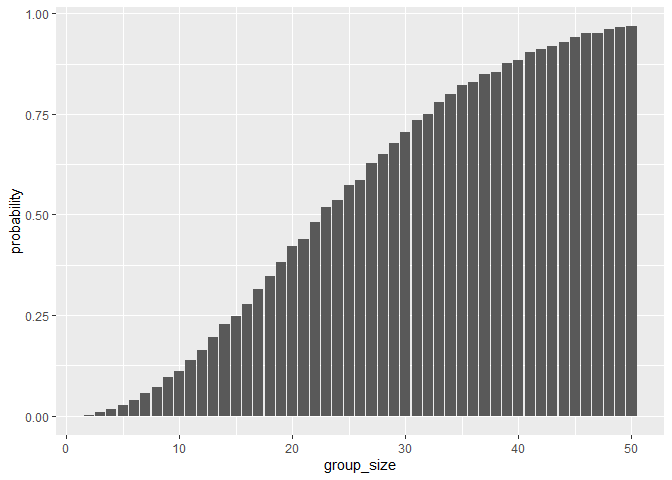
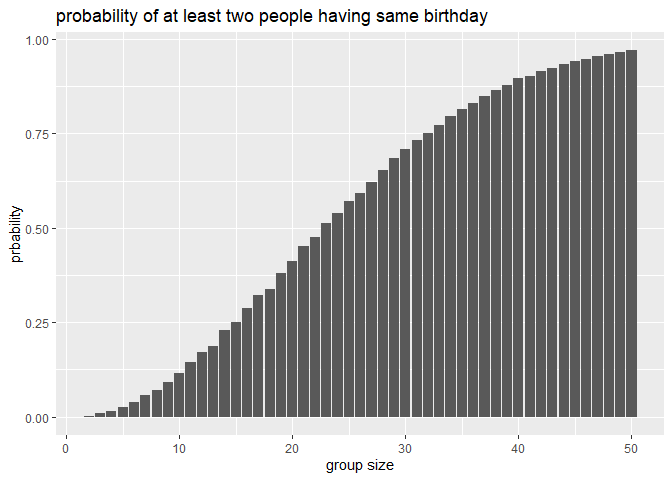
problem 2 without answering question * num of simulation need to be reset later

diff --git a/p8105_hw5_yl6109.md b/p8105_hw5_yl6109.md
@@ -3,6 +3,8 @@ p8105_hw5_yl6109
 Yurou Liu
 2025-11-05
 
+## Problem 1
+
 ``` r
 # write function
 bd_dup = function(n) {
@@ -35,7 +37,81 @@ results = bd_sim(10000, 2, 50)
 results %>% 
   ggplot(aes(x = group_size, 
              y = probability)) + 
-  geom_col()
+  geom_col() + 
+  labs(title = "probability of at least two people having same birthday", 
+       x = "group size", 
+       y = "prbability")
 ```
 
 ![](p8105_hw5_yl6109_files/figure-gfm/unnamed-chunk-1-1.png)<!-- -->
+
+## Problem 2
+
+``` r
+# simulation
+n = 30
+sigma = 5
+mu_values = c(0, 1, 2, 3, 4, 5, 6)
+n_sim = 50
+
+results = data.frame()
+
+for (mu in mu_values) {
+  for (i in 1:n_sim) {
+    x = rnorm(n, mean = mu, sd = sigma)
+    t_test = t.test(x, mu = 0)
+    tidy_result = broom::tidy(t_test)
+    results = rbind(results, data.frame(mu_true = mu,
+                                        mu_hat = tidy_result$estimate, 
+                                        p_value = tidy_result$p.value, 
+                                        rejected = tidy_result$p.value < 0.05))
+  }
+}
+
+# df for plots
+p2_plot_df = results %>% 
+  group_by(mu_true) %>% 
+  summarise(power = mean(rejected), 
+           mean_mu_hat = mean(mu_hat), 
+           rejected_mean_mu_hat = mean(mu_hat[rejected == TRUE]))
+
+# draw plot
+
+# power vs true mean
+p2_plot_df %>% 
+  ggplot(aes(x = mu_true, 
+             y = power)) + 
+  geom_point() + 
+  labs(title = "power vs true mean",
+       x = "true mean value",
+       y = "power", 
+       caption = "n = 30, sigma = 5, alpha = 0.05, 5000 simulations for each")
+```
+
+![](p8105_hw5_yl6109_files/figure-gfm/unnamed-chunk-2-1.png)<!-- -->
+
+``` r
+# avg mu hat for total (and avg mu hat in rejected) vs true mean
+p22 = p2_plot_df %>% 
+  ggplot(aes(x = mu_true, 
+             y = mean_mu_hat)) + 
+  geom_point() + 
+  geom_abline(intercept = 0, slope = 1, linetype = "dashed", color = "gray") +
+  labs(title = "avg mu hat for total vs true mean",
+       x = "true mean value", 
+       y = "estimated mean value")
+
+p23 = p2_plot_df %>% 
+  ggplot(aes(x = mu_true,
+             y = rejected_mean_mu_hat)) + 
+  geom_point() + 
+  geom_abline(intercept = 0, slope = 1, linetype = "dashed", color = "gray") +
+  labs(title = "avg mu hat in rejected vs true mean" ,
+       x = "true mean value", 
+       y = "estimated mean value for rejected tests")
+
+combined_plot = p22 + p23
+combined_plot
+```
+
+![](p8105_hw5_yl6109_files/figure-gfm/unnamed-chunk-2-2.png)<!-- -->
